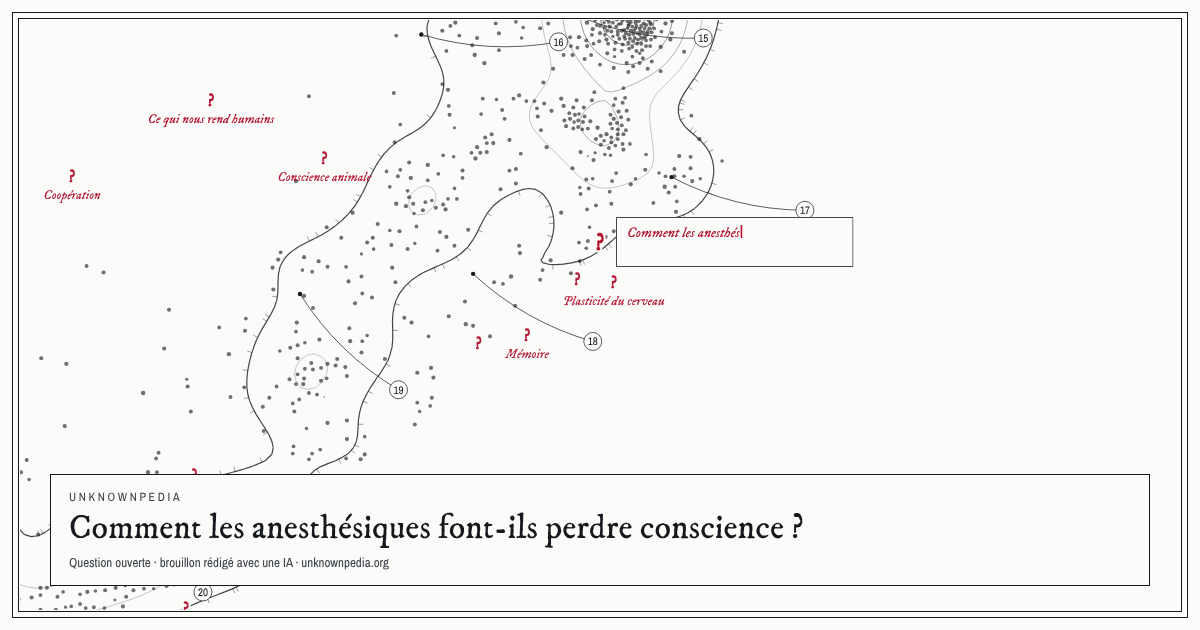
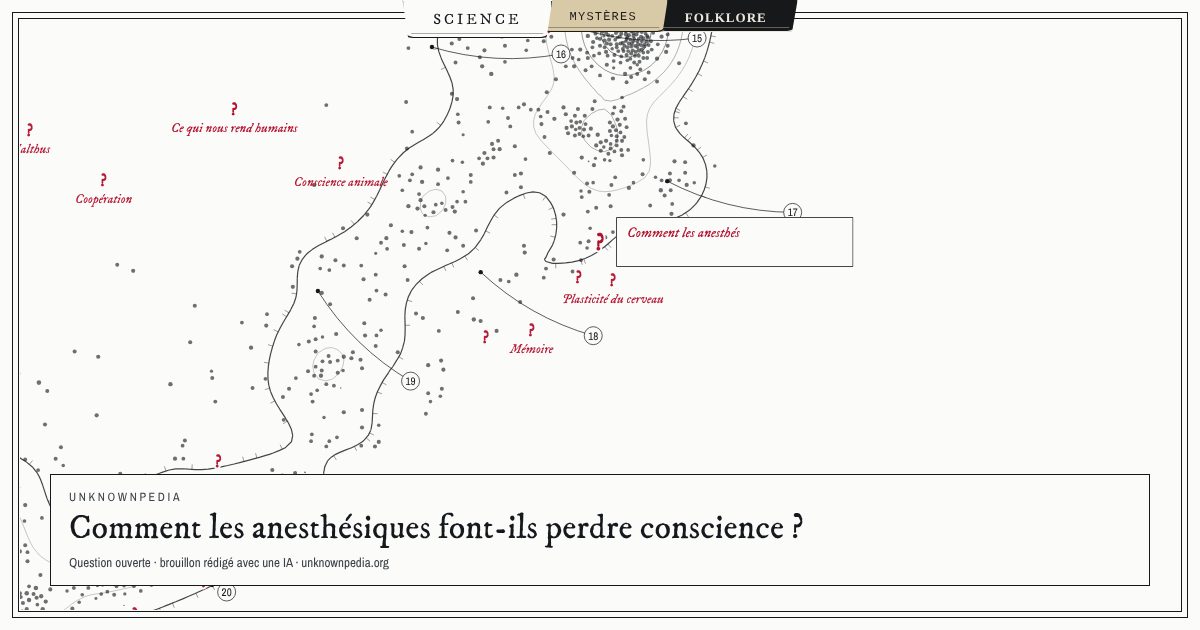
Menu des trois mondes (onglets de chemise) sur la carte, les Mystères, le Folklore et la salle 3D
Claude-Session: https://claude.ai/code/session_01VjQyAaHRC9jhYB9wQpsSzS

diff --git a/docs/menu-mondes.js b/docs/menu-mondes.js
@@ -1,0 +1,33 @@
+// Menu des trois mondes : onglets de chemise (Science, Mystères, Folklore), posés en haut de chaque page. Un seul fichier, aucune dépendance.
+(function () {
+  if (window.__mm) return; window.__mm = 1;
+  var p = location.pathname, en = /^\/en\//.test(p);
+  var cur = /viz-folklore|\/f[1-4][a-z]?\.html|passage/.test(p) && !/passage/.test(p) ? 'fol' : /\/labo\//.test(p) && !/viz-folklore|\/f[1-4][a-z]?\.html/.test(p) ? 'mys' : 'sci';
+  if (/viz-folklore|\/f[1-4][a-z]*\.html/.test(p)) cur = 'fol';
+  var W = [
+    { k: 'sci', n: en ? 'Science' : 'Science', u: en ? '/en/' : '/fr/', t: 'La carte de la recherche' },
+    { k: 'mys', n: en ? 'Mysteries' : 'Mystères', u: '/labo/viz-mystere.html', t: 'Le fichier des mystères' },
+    { k: 'fol', n: 'Folklore', u: '/labo/viz-folklore.html', t: 'Le bestiaire du monde' }
+  ];
+  var css = '#mm{position:fixed;left:50%;top:0;transform:translateX(-50%);z-index:2147483000;display:flex;align-items:flex-end;height:38px;padding:0 14px;font:13px/1 "Archivo Narrow","Arial Narrow",sans-serif;pointer-events:none}' +
+    '#mm a{pointer-events:auto;position:relative;display:block;margin:0 -7px;padding:12px 30px 9px;text-decoration:none;letter-spacing:.16em;text-transform:uppercase;white-space:nowrap;height:33px;border-radius:0 0 11px 11px;border:1.4px solid var(--c);border-top:0;background:var(--b);color:var(--c);box-shadow:0 5px 10px -6px #0008;transform:translateY(-6px);transition:transform .28s cubic-bezier(.2,.9,.3,1.2),box-shadow .28s;clip-path:polygon(0 0,100% 0,96% 100%,4% 100%)}' +
+    '#mm a::after{content:"";position:absolute;left:8px;right:8px;bottom:3px;height:1px;background:var(--c);opacity:.35}' +
+    '#mm a:hover{transform:translateY(-1px)}#mm a:focus-visible{outline:2px solid #ffd24a;outline-offset:-3px}' +
+    '#mm a[aria-current=page]{transform:translateY(0);height:40px;padding-top:14px;z-index:3;box-shadow:0 7px 12px -6px #000a}' +
+    '#mm a[aria-current=page]::before{content:"";position:absolute;left:-1px;right:-1px;top:0;height:3px;background:var(--b)}' +
+    '#mm .s{--b:#fbfbf9;--c:#15181d;font-family:"IM Fell DW Pica",Georgia,serif;font-size:15px;letter-spacing:.2em}' +
+    '#mm .m{--b:#d8caa7;--c:#1d1c1b;font-family:"Special Elite","Courier New",monospace;font-size:12px;letter-spacing:.1em;z-index:2}' +
+    '#mm .f{--b:#17181a;--c:#ece8dd;font-family:"Old Standard TT",Georgia,serif;font-weight:700;font-size:13px;letter-spacing:.08em}' +
+    '#mm a[aria-current=page]{background:var(--b)}' +
+    '@media(max-width:720px){#mm{height:32px;padding:0 6px}#mm a{padding:10px 14px 7px;font-size:11px;height:28px;letter-spacing:.08em}#mm a[aria-current=page]{height:33px;padding-top:11px}#mm .s{font-size:12px}}' +
+    '@media(prefers-reduced-motion:reduce){#mm a{transition:none}}' +
+    'body.mm-labo .maq{padding-top:40px!important}body.mm-3d .bar{top:48px!important}';
+  var st = document.createElement('style'); st.textContent = css; document.head.appendChild(st);
+  function mk() {
+    var nav = document.createElement('nav'); nav.id = 'mm'; nav.setAttribute('aria-label', 'Mondes');
+    nav.innerHTML = W.map(function (w) { return '<a class="' + w.k.charAt(0) + '" href="' + w.u + '" title="' + w.t + '"' + (w.k === cur ? ' aria-current="page"' : '') + '>' + w.n + '</a>'; }).join('');
+    document.body.appendChild(nav);
+    if (/\/labo\//.test(p)) document.body.classList.add('mm-labo'); if (/archives-3d/.test(p)) document.body.classList.add('mm-3d');
+  }
+  if (document.body) mk(); else document.addEventListener('DOMContentLoaded', mk);
+})();

diff --git a/docs/labo/viz-mystere.html b/docs/labo/viz-mystere.html
@@ -1,4 +1,4 @@
-<!doctype html><html lang="fr" data-theme="light"><meta charset="utf-8"><meta name="viewport" content="width=device-width,initial-scale=1"><meta name="robots" content="noindex"><title>Le fichier des mystères · maquette</title>
+<!doctype html><html lang="fr" data-theme="light"><meta charset="utf-8"><meta name="viewport" content="width=device-width,initial-scale=1"><meta name="robots" content="noindex"><script src="/menu-mondes.js" defer></script><title>Le fichier des mystères · maquette</title>
 <style>*{box-sizing:border-box}img{max-width:100%;display:block}a{color:inherit}button{font:inherit;color:inherit;cursor:pointer}
 @font-face{font-family:"Special Elite";src:url(fonts/special-elite-latin-400-normal.woff2) format("woff2")}@font-face{font-family:"Courier Prime";src:url(fonts/courier-prime-latin-400-normal.woff2) format("woff2")}@font-face{font-family:"Old Standard TT";src:url(fonts/old-standard-tt-latin-400-normal.woff2) format("woff2")}@font-face{font-family:"Old Standard TT";font-style:italic;src:url(fonts/old-standard-tt-latin-400-italic.woff2) format("woff2")}@font-face{font-family:"IM Fell DW Pica";src:url(../fonts/imfell.woff2) format("woff2")}@font-face{font-family:"IM Fell DW Pica";font-style:italic;src:url(../fonts/imfell-italic.woff2) format("woff2")}@font-face{font-family:"Archivo Narrow";font-weight:400 700;src:url(../fonts/archivo-narrow.woff2) format("woff2")}
 .maq{font:12px/1.3 "Archivo Narrow",sans-serif;letter-spacing:.04em;background:#111;color:#fff;padding:7px 14px;display:flex;gap:10px 18px;flex-wrap:wrap;align-items:center}.maq b{color:#ffd24a;letter-spacing:.1em;text-transform:uppercase}.maq a{border:1px solid #666;padding:2px 8px;text-decoration:none}.maq button{background:none;border:1px solid #666;color:#fff;padding:2px 8px;font:inherit}

diff --git a/docs/labo/viz-folklore.html b/docs/labo/viz-folklore.html
@@ -1,4 +1,4 @@
-<!doctype html><html lang="fr" data-theme="light"><meta charset="utf-8"><meta name="viewport" content="width=device-width,initial-scale=1"><meta name="robots" content="noindex"><title>Le bestiaire du monde · maquette</title>
+<!doctype html><html lang="fr" data-theme="light"><meta charset="utf-8"><meta name="viewport" content="width=device-width,initial-scale=1"><meta name="robots" content="noindex"><script src="/menu-mondes.js" defer></script><title>Le bestiaire du monde · maquette</title>
 <style>*{box-sizing:border-box}img{max-width:100%;display:block}a{color:inherit}button{font:inherit;color:inherit;cursor:pointer}
 @font-face{font-family:"Special Elite";src:url(fonts/special-elite-latin-400-normal.woff2) format("woff2")}@font-face{font-family:"Courier Prime";src:url(fonts/courier-prime-latin-400-normal.woff2) format("woff2")}@font-face{font-family:"Old Standard TT";src:url(fonts/old-standard-tt-latin-400-normal.woff2) format("woff2")}@font-face{font-family:"Old Standard TT";font-style:italic;src:url(fonts/old-standard-tt-latin-400-italic.woff2) format("woff2")}@font-face{font-family:"IM Fell DW Pica";src:url(../fonts/imfell.woff2) format("woff2")}@font-face{font-family:"IM Fell DW Pica";font-style:italic;src:url(../fonts/imfell-italic.woff2) format("woff2")}@font-face{font-family:"Archivo Narrow";font-weight:400 700;src:url(../fonts/archivo-narrow.woff2) format("woff2")}
 .maq{font:12px/1.3 "Archivo Narrow",sans-serif;letter-spacing:.04em;background:#111;color:#fff;padding:7px 14px;display:flex;gap:10px 18px;flex-wrap:wrap;align-items:center}.maq b{color:#ffd24a;letter-spacing:.1em;text-transform:uppercase}.maq a{border:1px solid #666;padding:2px 8px;text-decoration:none}.maq button{background:none;border:1px solid #666;color:#fff;padding:2px 8px;font:inherit}

diff --git a/carte.tpl.html b/carte.tpl.html
@@ -139,7 +139,7 @@ let x0 = 9, x1 = -9, y0 = 9, y1 = -9;
 for (let i = 0; i < N; i++) { x0 = Math.min(x0, T[i * 5]); x1 = Math.max(x1, T[i * 5]); y0 = Math.min(y0, T[i * 5 + 1]); y1 = Math.max(y1, T[i * 5 + 1]); }
 const mx = (x0 + x1) / 2, my = (y0 + y1) / 2, ext = Math.max(x1 - x0, y1 - y0);
 let W = 0, H = 0, DPR = 1, s0 = 1, tgt = null; const view = { x: 0, y: 0, k: 1 };
-function resize() { const r = cv.getBoundingClientRect(); DPR = Math.min(2, devicePixelRatio || 1); W = r.width; H = r.height; cv.width = Math.round(W * DPR); cv.height = Math.round(H * DPR); s0 = Math.min(W, H) * .67 / ext; }
+function resize() { const r = cv.getBoundingClientRect(); DPR = Math.min(2, devicePixelRatio || 1); W = r.width; H = r.height; cv.width = Math.round(W * DPR); cv.height = Math.round(H * DPR); s0 = Math.min(W, H) * .63 / ext; }
 const toScreen = (wx, wy) => [W / 2 + (wx - mx - view.x) * s0 * view.k, H / 2 + (wy - my - view.y) * s0 * view.k];
 const toWorld = (px, py) => [(px - W / 2) / (s0 * view.k) + mx + view.x, (py - H / 2) / (s0 * view.k) + my + view.y];
 function zoomAt(px, py, f) { const [wx, wy] = toWorld(px, py); view.k = clamp(view.k * f, .8, 14); view.x = wx - mx - (px - W / 2) / (s0 * view.k); view.y = wy - my - (py - H / 2) / (s0 * view.k); tgt = null; }
@@ -361,3 +361,4 @@ if (document.fonts) document.fonts.ready.then(() => {});
 applyLang(); resize(); openHash();
 (function frame(ts) { const dt = Math.min(.05, (ts - lastTs) / 1000 || .016); lastTs = ts; stepView(); draw(dt); requestAnimationFrame(frame); })(0);
 </script>
+<script src="/menu-mondes.js" defer></script>

diff --git a/docs/en/index.html b/docs/en/index.html
@@ -139,7 +139,7 @@ let x0 = 9, x1 = -9, y0 = 9, y1 = -9;
 for (let i = 0; i < N; i++) { x0 = Math.min(x0, T[i * 5]); x1 = Math.max(x1, T[i * 5]); y0 = Math.min(y0, T[i * 5 + 1]); y1 = Math.max(y1, T[i * 5 + 1]); }
 const mx = (x0 + x1) / 2, my = (y0 + y1) / 2, ext = Math.max(x1 - x0, y1 - y0);
 let W = 0, H = 0, DPR = 1, s0 = 1, tgt = null; const view = { x: 0, y: 0, k: 1 };
-function resize() { const r = cv.getBoundingClientRect(); DPR = Math.min(2, devicePixelRatio || 1); W = r.width; H = r.height; cv.width = Math.round(W * DPR); cv.height = Math.round(H * DPR); s0 = Math.min(W, H) * .67 / ext; }
+function resize() { const r = cv.getBoundingClientRect(); DPR = Math.min(2, devicePixelRatio || 1); W = r.width; H = r.height; cv.width = Math.round(W * DPR); cv.height = Math.round(H * DPR); s0 = Math.min(W, H) * .63 / ext; }
 const toScreen = (wx, wy) => [W / 2 + (wx - mx - view.x) * s0 * view.k, H / 2 + (wy - my - view.y) * s0 * view.k];
 const toWorld = (px, py) => [(px - W / 2) / (s0 * view.k) + mx + view.x, (py - H / 2) / (s0 * view.k) + my + view.y];
 function zoomAt(px, py, f) { const [wx, wy] = toWorld(px, py); view.k = clamp(view.k * f, .8, 14); view.x = wx - mx - (px - W / 2) / (s0 * view.k); view.y = wy - my - (py - H / 2) / (s0 * view.k); tgt = null; }
@@ -361,3 +361,4 @@ if (document.fonts) document.fonts.ready.then(() => {});
 applyLang(); resize(); openHash();
 (function frame(ts) { const dt = Math.min(.05, (ts - lastTs) / 1000 || .016); lastTs = ts; stepView(); draw(dt); requestAnimationFrame(frame); })(0);
 </script>
+<script src="/menu-mondes.js" defer></script>

diff --git a/docs/fr/index.html b/docs/fr/index.html
@@ -139,7 +139,7 @@ let x0 = 9, x1 = -9, y0 = 9, y1 = -9;
 for (let i = 0; i < N; i++) { x0 = Math.min(x0, T[i * 5]); x1 = Math.max(x1, T[i * 5]); y0 = Math.min(y0, T[i * 5 + 1]); y1 = Math.max(y1, T[i * 5 + 1]); }
 const mx = (x0 + x1) / 2, my = (y0 + y1) / 2, ext = Math.max(x1 - x0, y1 - y0);
 let W = 0, H = 0, DPR = 1, s0 = 1, tgt = null; const view = { x: 0, y: 0, k: 1 };
-function resize() { const r = cv.getBoundingClientRect(); DPR = Math.min(2, devicePixelRatio || 1); W = r.width; H = r.height; cv.width = Math.round(W * DPR); cv.height = Math.round(H * DPR); s0 = Math.min(W, H) * .67 / ext; }
+function resize() { const r = cv.getBoundingClientRect(); DPR = Math.min(2, devicePixelRatio || 1); W = r.width; H = r.height; cv.width = Math.round(W * DPR); cv.height = Math.round(H * DPR); s0 = Math.min(W, H) * .63 / ext; }
 const toScreen = (wx, wy) => [W / 2 + (wx - mx - view.x) * s0 * view.k, H / 2 + (wy - my - view.y) * s0 * view.k];
 const toWorld = (px, py) => [(px - W / 2) / (s0 * view.k) + mx + view.x, (py - H / 2) / (s0 * view.k) + my + view.y];
 function zoomAt(px, py, f) { const [wx, wy] = toWorld(px, py); view.k = clamp(view.k * f, .8, 14); view.x = wx - mx - (px - W / 2) / (s0 * view.k); view.y = wy - my - (py - H / 2) / (s0 * view.k); tgt = null; }
@@ -361,3 +361,4 @@ if (document.fonts) document.fonts.ready.then(() => {});
 applyLang(); resize(); openHash();
 (function frame(ts) { const dt = Math.min(.05, (ts - lastTs) / 1000 || .016); lastTs = ts; stepView(); draw(dt); requestAnimationFrame(frame); })(0);
 </script>
+<script src="/menu-mondes.js" defer></script>

diff --git a/docs/index.html b/docs/index.html
@@ -139,7 +139,7 @@ let x0 = 9, x1 = -9, y0 = 9, y1 = -9;
 for (let i = 0; i < N; i++) { x0 = Math.min(x0, T[i * 5]); x1 = Math.max(x1, T[i * 5]); y0 = Math.min(y0, T[i * 5 + 1]); y1 = Math.max(y1, T[i * 5 + 1]); }
 const mx = (x0 + x1) / 2, my = (y0 + y1) / 2, ext = Math.max(x1 - x0, y1 - y0);
 let W = 0, H = 0, DPR = 1, s0 = 1, tgt = null; const view = { x: 0, y: 0, k: 1 };
-function resize() { const r = cv.getBoundingClientRect(); DPR = Math.min(2, devicePixelRatio || 1); W = r.width; H = r.height; cv.width = Math.round(W * DPR); cv.height = Math.round(H * DPR); s0 = Math.min(W, H) * .67 / ext; }
+function resize() { const r = cv.getBoundingClientRect(); DPR = Math.min(2, devicePixelRatio || 1); W = r.width; H = r.height; cv.width = Math.round(W * DPR); cv.height = Math.round(H * DPR); s0 = Math.min(W, H) * .63 / ext; }
 const toScreen = (wx, wy) => [W / 2 + (wx - mx - view.x) * s0 * view.k, H / 2 + (wy - my - view.y) * s0 * view.k];
 const toWorld = (px, py) => [(px - W / 2) / (s0 * view.k) + mx + view.x, (py - H / 2) / (s0 * view.k) + my + view.y];
 function zoomAt(px, py, f) { const [wx, wy] = toWorld(px, py); view.k = clamp(view.k * f, .8, 14); view.x = wx - mx - (px - W / 2) / (s0 * view.k); view.y = wy - my - (py - H / 2) / (s0 * view.k); tgt = null; }
@@ -361,3 +361,4 @@ if (document.fonts) document.fonts.ready.then(() => {});
 applyLang(); resize(); openHash();
 (function frame(ts) { const dt = Math.min(.05, (ts - lastTs) / 1000 || .016); lastTs = ts; stepView(); draw(dt); requestAnimationFrame(frame); })(0);
 </script>
+<script src="/menu-mondes.js" defer></script>

diff --git a/docs/labo/archives-3d.html b/docs/labo/archives-3d.html
@@ -1,4 +1,4 @@
-<!doctype html><html lang="fr"><meta charset="utf-8"><meta name="viewport" content="width=device-width,initial-scale=1"><meta name="robots" content="noindex"><title>La salle des archives · maquette 3D</title>
+<!doctype html><html lang="fr"><meta charset="utf-8"><meta name="viewport" content="width=device-width,initial-scale=1"><meta name="robots" content="noindex"><script src="/menu-mondes.js" defer></script><title>La salle des archives · maquette 3D</title>
 <style>*{box-sizing:border-box}html,body{margin:0;height:100%;overflow:hidden;background:#060809;color:#e9e3cf;font:15px/1.5 "Courier Prime",monospace}
 @font-face{font-family:"Special Elite";src:url(fonts/special-elite-latin-400-normal.woff2) format("woff2")}@font-face{font-family:"Courier Prime";src:url(fonts/courier-prime-latin-400-normal.woff2) format("woff2")}@font-face{font-family:"Archivo Narrow";font-weight:400 700;src:url(../fonts/archivo-narrow.woff2) format("woff2")}
 #gl{position:fixed;inset:0;width:100%;height:100%;display:block;cursor:grab;touch-action:none}

diff --git a/docs/labo/m1r.html b/docs/labo/m1r.html
@@ -1,4 +1,4 @@
-<!doctype html><html lang="fr"><meta charset="utf-8"><meta name="viewport" content="width=device-width,initial-scale=1"><meta name="robots" content="noindex"><title>Dossier tapé, réaliste · maquette Mystères</title>
+<!doctype html><html lang="fr"><meta charset="utf-8"><meta name="viewport" content="width=device-width,initial-scale=1"><meta name="robots" content="noindex"><script src="/menu-mondes.js" defer></script><title>Dossier tapé, réaliste · maquette Mystères</title>
 <style>@font-face{font-family:"Special Elite";src:url(fonts/special-elite-latin-400-normal.woff2) format("woff2");font-display:swap}
 @font-face{font-family:"Courier Prime";src:url(fonts/courier-prime-latin-400-normal.woff2) format("woff2");font-display:swap}
 @font-face{font-family:"Courier Prime";font-style:italic;src:url(fonts/courier-prime-latin-400-italic.woff2) format("woff2");font-display:swap}

diff --git a/docs/labo/f3.html b/docs/labo/f3.html
@@ -1,4 +1,4 @@
-<!doctype html><html lang="fr"><meta charset="utf-8"><meta name="viewport" content="width=device-width,initial-scale=1"><meta name="robots" content="noindex"><title>Cabinet de curiosités · maquette Folklore</title>
+<!doctype html><html lang="fr"><meta charset="utf-8"><meta name="viewport" content="width=device-width,initial-scale=1"><meta name="robots" content="noindex"><script src="/menu-mondes.js" defer></script><title>Cabinet de curiosités · maquette Folklore</title>
 <style>@font-face{font-family:"Special Elite";src:url(fonts/special-elite-latin-400-normal.woff2) format("woff2");font-display:swap}
 @font-face{font-family:"Courier Prime";src:url(fonts/courier-prime-latin-400-normal.woff2) format("woff2");font-display:swap}
 @font-face{font-family:"Courier Prime";font-style:italic;src:url(fonts/courier-prime-latin-400-italic.woff2) format("woff2");font-display:swap}

diff --git a/docs/labo/m5.html b/docs/labo/m5.html
@@ -1,4 +1,4 @@
-<!doctype html><html lang="fr"><meta charset="utf-8"><meta name="viewport" content="width=device-width,initial-scale=1"><meta name="robots" content="noindex"><title>Dossier d'archives · maquette Mystères</title>
+<!doctype html><html lang="fr"><meta charset="utf-8"><meta name="viewport" content="width=device-width,initial-scale=1"><meta name="robots" content="noindex"><script src="/menu-mondes.js" defer></script><title>Dossier d'archives · maquette Mystères</title>
 <style>@font-face{font-family:"Special Elite";src:url(fonts/special-elite-latin-400-normal.woff2) format("woff2");font-display:swap}
 @font-face{font-family:"Courier Prime";src:url(fonts/courier-prime-latin-400-normal.woff2) format("woff2");font-display:swap}
 @font-face{font-family:"Courier Prime";font-style:italic;src:url(fonts/courier-prime-latin-400-italic.woff2) format("woff2");font-display:swap}

diff --git a/docs/labo/m4.html b/docs/labo/m4.html
@@ -1,4 +1,4 @@
-<!doctype html><html lang="fr"><meta charset="utf-8"><meta name="viewport" content="width=device-width,initial-scale=1"><meta name="robots" content="noindex"><title>Coupure de presse · maquette Mystères</title>
+<!doctype html><html lang="fr"><meta charset="utf-8"><meta name="viewport" content="width=device-width,initial-scale=1"><meta name="robots" content="noindex"><script src="/menu-mondes.js" defer></script><title>Coupure de presse · maquette Mystères</title>
 <style>@font-face{font-family:"Special Elite";src:url(fonts/special-elite-latin-400-normal.woff2) format("woff2");font-display:swap}
 @font-face{font-family:"Courier Prime";src:url(fonts/courier-prime-latin-400-normal.woff2) format("woff2");font-display:swap}
 @font-face{font-family:"Courier Prime";font-style:italic;src:url(fonts/courier-prime-latin-400-italic.woff2) format("woff2");font-display:swap}
